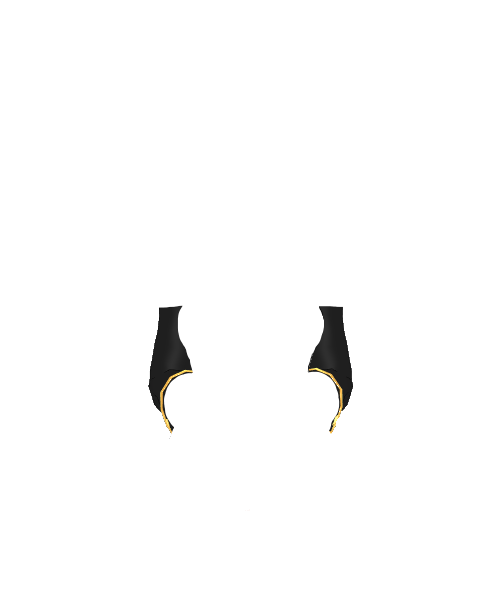
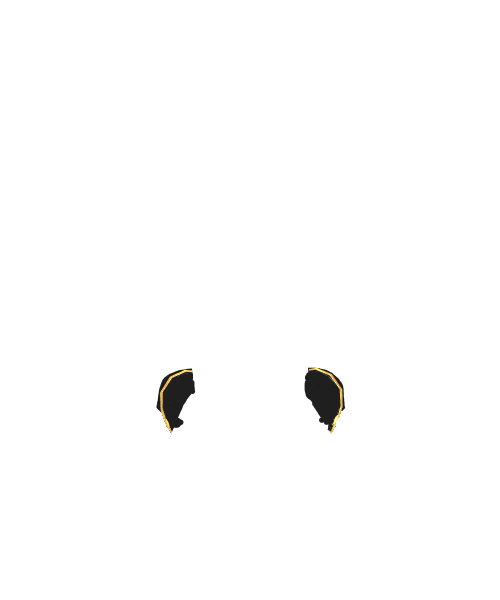
Test successful
layering will work out well with all clothing

Changed region(s): [[0.6, 0.51, 0.72, 0.72], [0.3, 0.51, 0.39, 0.72]]

diff --git a/BondageClub/Assets/Female3DCG/Female3DCG.js b/BondageClub/Assets/Female3DCG/Female3DCG.js
@@ -132,7 +132,7 @@ var AssetFemale3DCG = [
 			{ Name: "AdmiralTop", Value: 30, Hide: ["ItemNeck", "ItemHidden"], HideItem: ["ItemArmsLeatherCuffs", "ItemArmsFuturisticCuffs", "ItemArmsOrnateCuffs", "ClothLowerLatexSkirt1", "ClothLowerSkirt1", "ClothLowerSkirt2", "ClothLowerSkirt3", "ClothLowerTennisSkirt1", "ClothLowerClothSkirt1", "ItemNipplesPiercingsRoundPiercing", "ItemNipplesPiercingsWeightedPiercing", "ItemNipplesLactationPump", "ItemDevicesStrapOnSmooth", "ItemDevicesStrapOnStuds"], 
 				Layer: [
 					{ Name: "Fabric" },
-					{ Name: "Sleeves" }
+					{ Name: "Sleeves", Priority: 32 }
 				]
 			},
 			{ Name: "VirginKiller1", Value: 40, HideItem: ["ItemNipplesPiercingsRoundPiercing", "ItemNipplesPiercingsWeightedPiercing", "ItemNipplesLactationPump"] },
